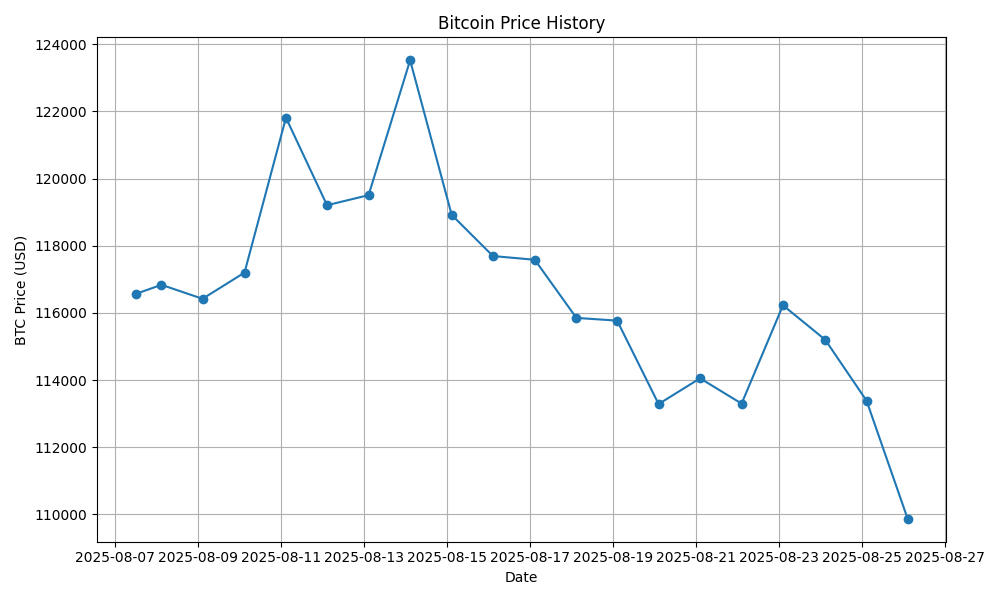
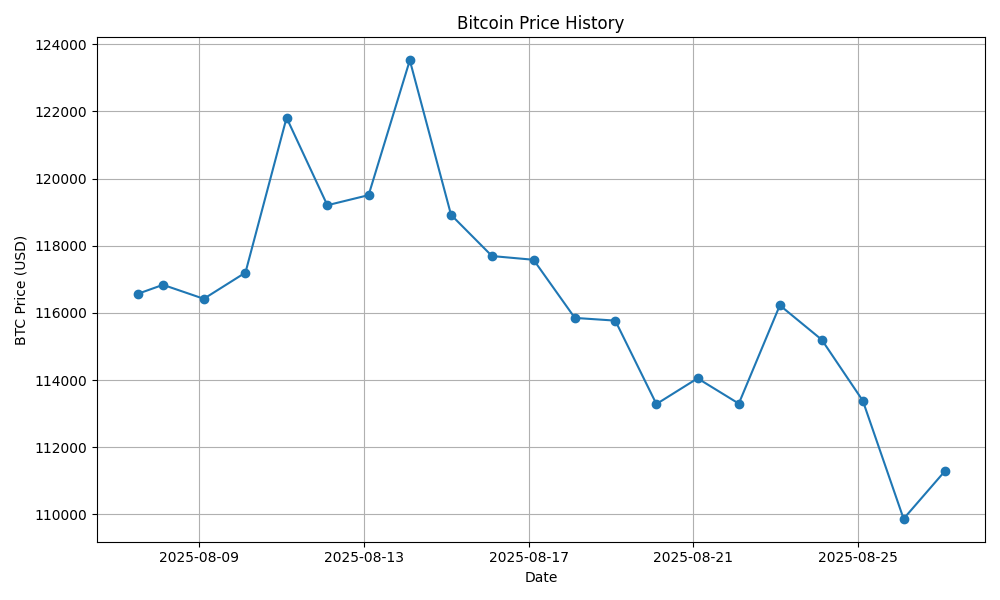
Update: BTC price, chart & README for 2025-08-27

diff --git a/README.md b/README.md
@@ -4,6 +4,6 @@ This project automatically fetches and charts the daily USD price of Bitcoin.
 
 ## Latest Stats
 
-## Latest price (USD): <!--BTC_PRICE-->109869<!--/BTC_PRICE-->
+## Latest price (USD): <!--BTC_PRICE-->111280<!--/BTC_PRICE-->
 
 ![BTC Historical Chart](btc_price_history.png)
